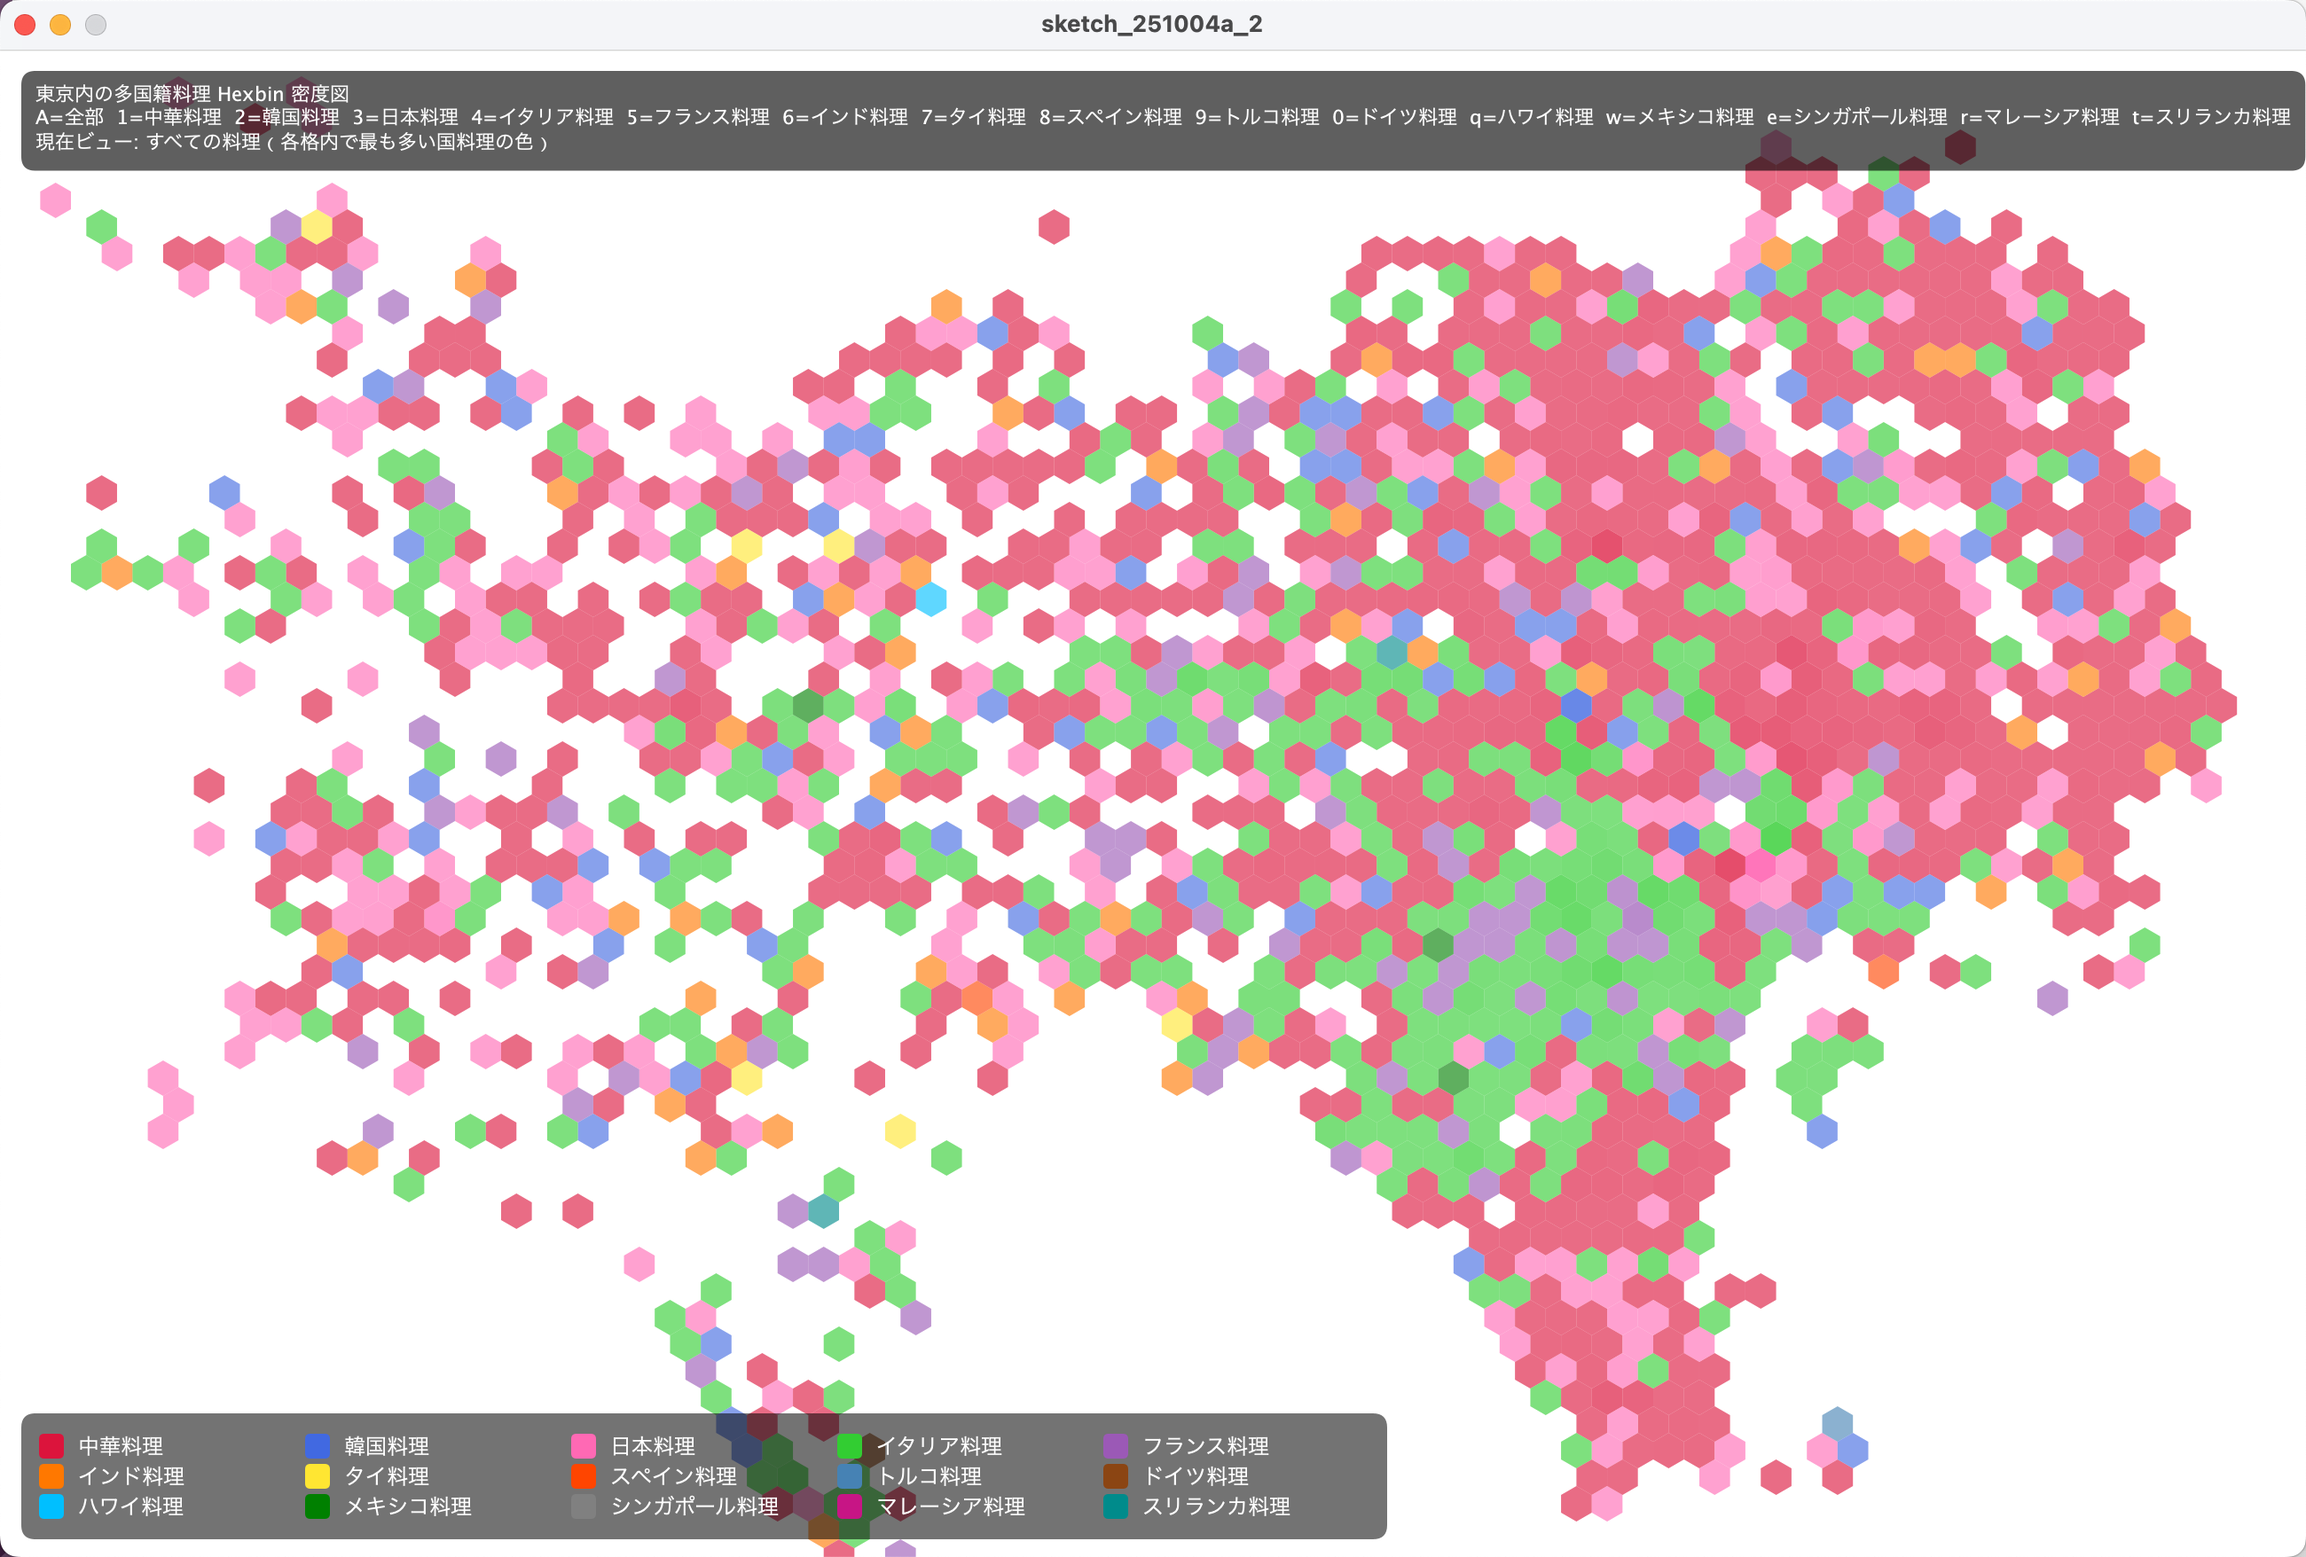
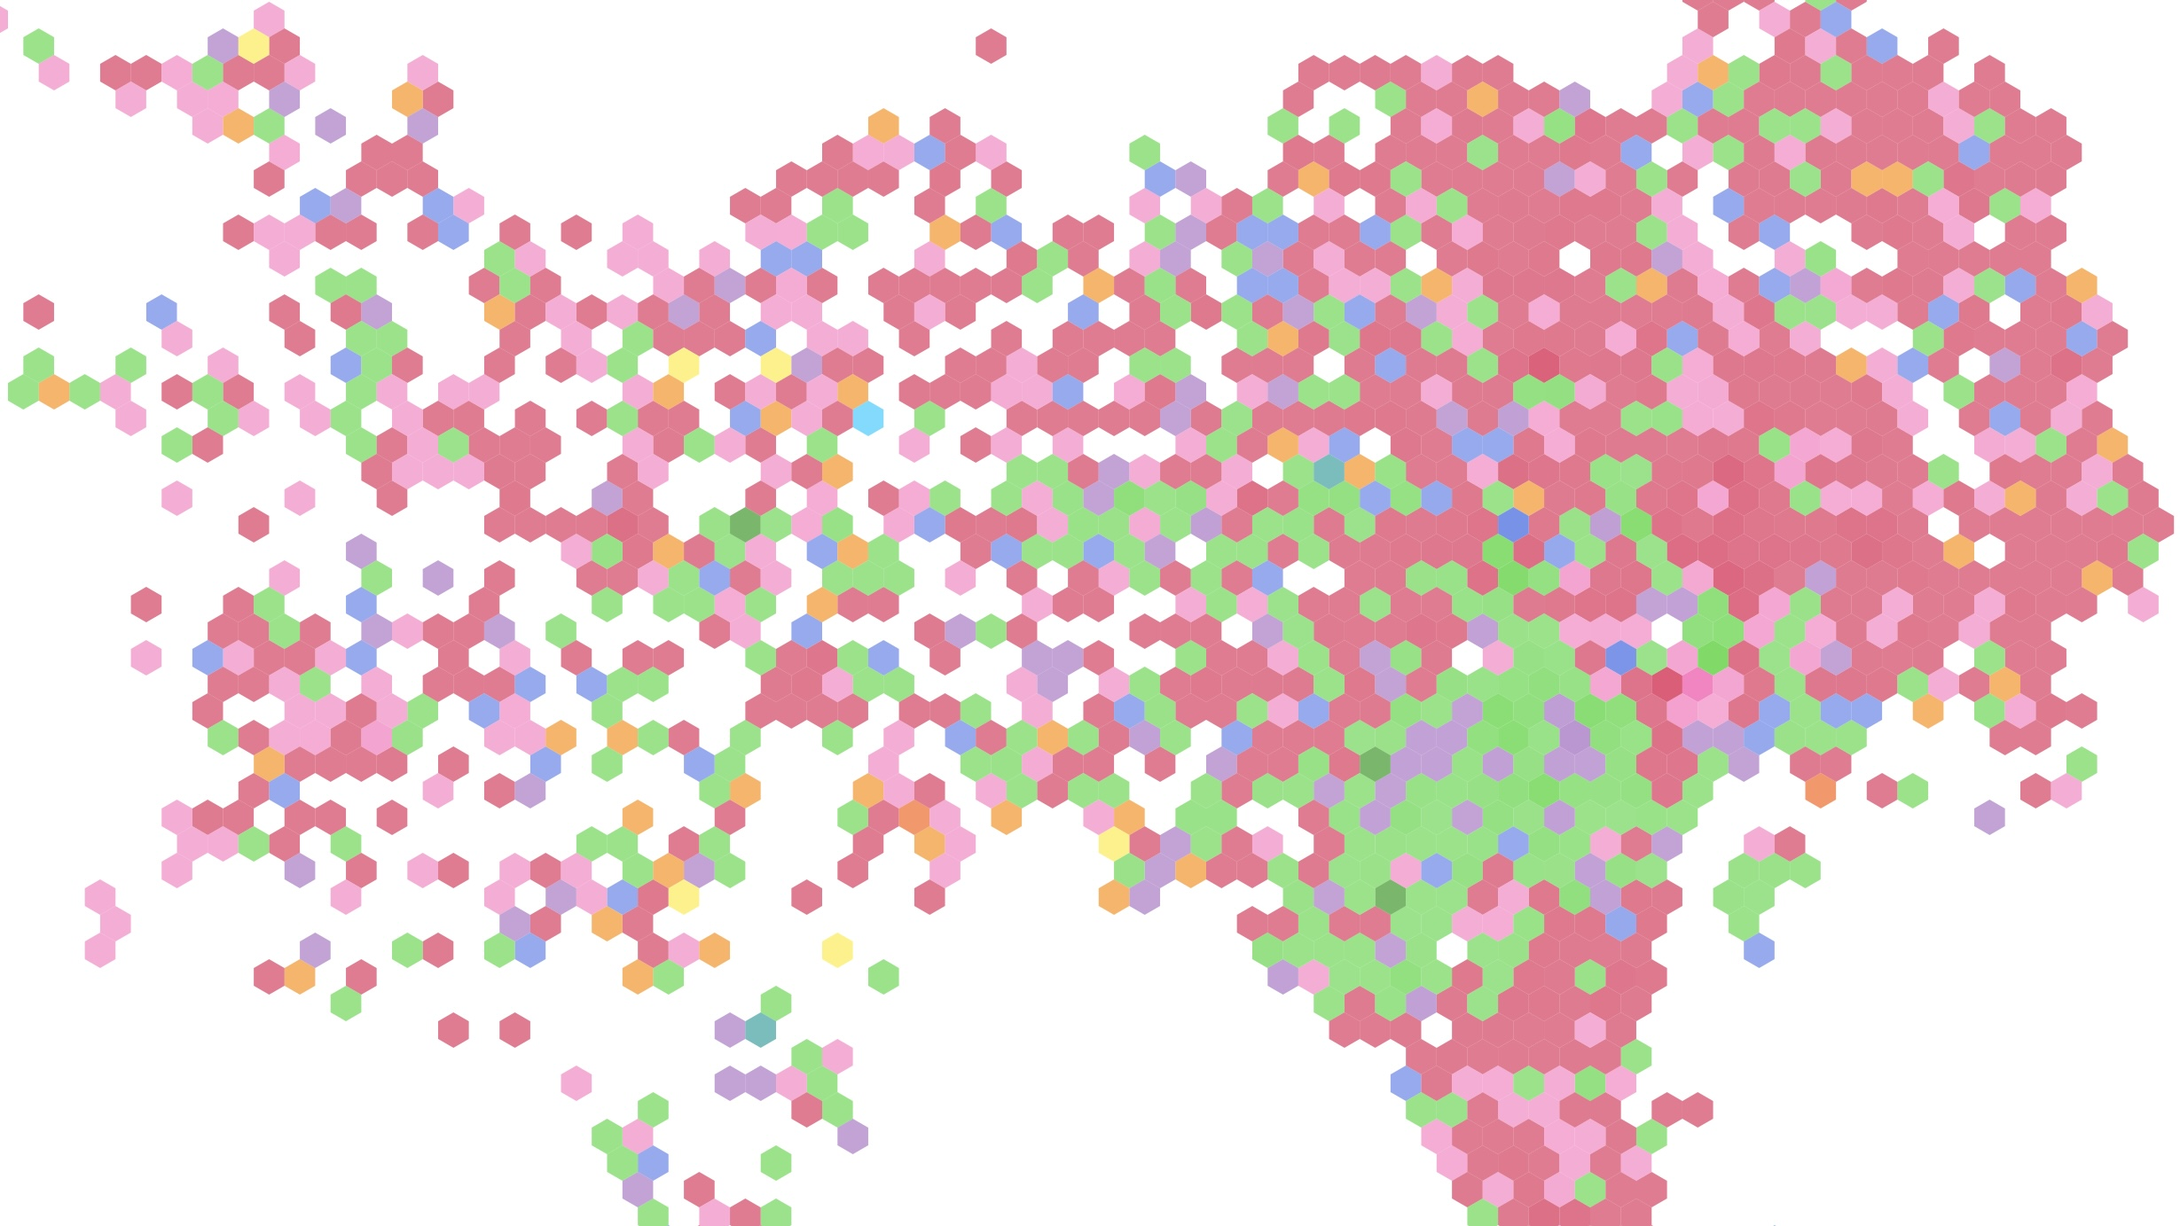
Refine about page from main

diff --git a/app/about/page.tsx b/app/about/page.tsx
@@ -56,15 +56,6 @@ const experiences = [
     company: "Fujitsu",
     roles: [
       {
-        period: "2019.4 - 2020.5",
-        title: "System Engineer",
-        summary: "Participated in the development and maintenance of healthcare systems for hospitals and medical institutions.",
-        details: [
-          "System development and operational support.",
-          "Enterprise-scale system workflow understanding."
-        ]
-      },
-      {
         period: "2020.6 - 2022.2",
         title: "Consultant",
         summary: "Worked closely with enterprise clients in healthcare-related digital transformation projects.",
@@ -74,48 +65,67 @@ const experiences = [
           "System improvement proposal and documentation.",
           "Cross-functional collaboration between technical and business teams."
         ]
+      },
+      {
+        period: "2019.4 - 2020.5",
+        title: "System Engineer",
+        summary: "Participated in the development and maintenance of healthcare systems for hospitals and medical institutions.",
+        details: [
+          "System development and operational support.",
+          "Enterprise-scale system workflow understanding."
+        ]
       }
     ]
   }
 ];
 
-const expertise = ["Product Strategy", "UI/UX Design", "Agile/Scrum", "Frontend Engineering", "Product Management", "Pharmacy"];
-
 const certifications = [
-  "Google UX Design",
-  "Advanced CSPO & CSD",
-  "Meta Frontend Developer",
-  "Certified Scrum Master"
+  "Google UX Design Professional Certificate",
+  "Advanced Certified Scrum Product Owner",
+  "Certified Scrum Developer",
+  "Certified Scrum Master",
+  "Meta Front-End Developer Professional Certificate"
 ];
 
 const skillGroups = [
   {
-    title: "/Design",
+    title: "Product",
     items: [
-      "UI/UX Design",
-      "Product Design",
-      "0→1 Innovation",
-      "GenAI / Vibe Coding",
-      "Creative + Art Direction",
-      "Visual Design + Systems",
-      "Typography",
-      "Concept Development",
-      "Creative Strategy",
-      "Illustration"
+      "Product Strategy",
+      "Requirement Definition",
+      "Agile/Scrum",
+      "Stakeholder Communication",
+      "Data-informed UX Improvement",
+      "Product Management",
+      "Project Management"
     ]
   },
   {
-    title: "/Technical",
+    title: "Design",
+    items: [
+      "UI/UX Design",
+      "Product Design",
+      "Information Design",
+      "Design Systems",
+      "Creative Strategy",
+      "Graphic Design",
+      "Social Project Design"
+    ]
+  },
+  {
+    title: "Technical",
     items: [
       "Next.js",
       "React",
-      "Typescript",
-      "HTML5",
-      "CSS",
+      "Vue",
+      "TypeScript",
+      "Javascript",
+      "HTML5 / CSS",
       "PHP",
+      "GitHub",
       "AWS",
-      "Figma (Design + Prototyping)",
-      "Illustrator",
+      "Figma",
+      "Illustration",
       "Photoshop",
       "Lightroom"
     ]
@@ -124,7 +134,7 @@ const skillGroups = [
 
 const languages = [
   { name: "Chinese", level: "Native", width: "100%" },
-  { name: "Japanese", level: "Business", width: "95%" },
+  { name: "Japanese", level: "Native", width: "100%" },
   { name: "English", level: "Professional", width: "84%" }
 ];
 
@@ -178,7 +188,7 @@ export default function AboutPage() {
           <h1 className="max-w-3xl text-[clamp(2.4rem,5vw,4.6rem)] font-bold leading-[1.02] tracking-normal text-[#69577a]">
             Hi, I’m Yong Liang
           </h1>
-          <p className="mt-7 max-w-3xl text-lg leading-8 text-[#332f3b]">
+          <p className="mt-20 max-w-3xl text-lg leading-8 text-[#332f3b]">
             A Tokyo-based product professional with a background in{" "}
             <span className="font-semibold text-tomato">product management</span>,{" "}
             <span className="font-semibold text-tomato">UX design</span>, and{" "}
@@ -190,12 +200,12 @@ export default function AboutPage() {
             exploring the relationship between design and human emotion.
           </p>
 
-          <section className="mt-14">
+          <section className="mt-[5.5rem]">
             <SectionHeading icon={<BriefcaseIcon />}>Work Experience</SectionHeading>
-            <div className="relative ml-3 border-l border-[#ded7e7] pl-8">
+            <div className="relative ml-1 pl-9 before:absolute before:left-[7px] before:top-1 before:h-full before:w-px before:bg-[#ded7e7]">
               {experiences.map((item) => (
                 <article key={item.company} className="relative pb-12 last:pb-0">
-                  <span className="absolute -left-[41px] top-1 h-2.5 w-2.5 rounded-full bg-[#7d6a91] ring-8 ring-[#f8f6fb]" />
+                  <span className="absolute -left-9 top-1 h-3.5 w-3.5 rounded-full bg-[#7d6a91]" />
                   <h3 className="text-2xl font-bold leading-tight text-[#201a27]">{item.company}</h3>
                   <div className="mt-6 space-y-6">
                     {item.roles.map((role) => (
@@ -223,71 +233,54 @@ export default function AboutPage() {
 
           <section className="mt-16">
             <SectionHeading icon={<BriefcaseIcon />}>Education</SectionHeading>
-            <div className="rounded-md border border-black/10 bg-white/80 p-8 shadow-sm md:flex md:items-start md:justify-between">
-              <div>
-                <h3 className="text-2xl font-bold text-[#201a27]">Musashino Art University</h3>
-                <p className="mt-2 text-base font-semibold text-[#69577a]">Bachelor of Design</p>
-                <p className="mt-4 max-w-2xl text-base leading-7 text-[#332f3b]">
-                  Focused on Web Design, information design, visual communication, and creative expression.
+            <div className="space-y-8">
+              <article>
+                <div className="flex flex-col gap-2 md:flex-row md:items-start md:justify-between md:gap-8">
+                  <h3 className="text-2xl font-bold text-[#201a27]">Musashino Art University</h3>
+                  <p className="shrink-0 text-xs font-bold tracking-[0.12em] text-[#8a789d] md:mt-1">2025.04 - Present</p>
+                </div>
+                <p className="mt-4 text-base font-semibold text-[#69577a]">Bachelor of Design Information</p>
+                <p className="mt-5 max-w-3xl text-base leading-7 text-[#332f3b]">
+                  Focused on web design, information design, graphic design, visual communication, and creative expression.
                 </p>
-              </div>
-              <p className="mt-5 shrink-0 text-xs font-bold uppercase tracking-[0.12em] text-[#8a789d] md:mt-1">
-                2025 - Present
-              </p>
+              </article>
+              <article>
+                <div className="flex flex-col gap-2 md:flex-row md:items-start md:justify-between md:gap-8">
+                  <h3 className="text-2xl font-bold text-[#201a27]">Okayama University</h3>
+                  <p className="shrink-0 text-xs font-bold tracking-[0.12em] text-[#8a789d] md:mt-1">2016.10 - 2018.09</p>
+                </div>
+                <p className="mt-4 text-base font-semibold text-[#69577a]">Master of Pharmacy</p>
+                <p className="mt-5 max-w-3xl text-base leading-7 text-[#332f3b]">
+                  Conducted a genetic analysis study on bacteria that cause food poisoning. Built a research-based foundation in
+                  scientific thinking, analytical reasoning, and structured problem solving.
+                </p>
+              </article>
             </div>
           </section>
 
           <section className="mt-16">
             <SectionHeading icon={<BadgeIcon />}>Beyond Work</SectionHeading>
-            <div className="rounded-md border border-black/10 bg-white/80 p-8 shadow-sm">
-              <p className="text-base leading-8 text-[#332f3b]">
-                I’m deeply inspired by photography, travel, architecture, and visual culture. I enjoy observing how
-                emotions, memories, and aesthetics influence the way people experience products and spaces.
-              </p>
-              <p className="mt-5 text-base leading-8 text-[#332f3b]">
-                Recently, I’ve been exploring the intersection of design, storytelling, and creative technology.
-              </p>
-            </div>
+            <p className="max-w-3xl text-base leading-8 text-[#332f3b]">
+              I’m inspired by photography, travel, and psychology. I enjoy observing how emotions, memories, and
+              aesthetics influence the way people experience products and spaces.
+            </p>
+            <p className="mt-5 max-w-3xl text-base leading-8 text-[#332f3b]">
+              I am also a freelance photographer, capturing emotions, cultures, and diverse experiences through my lens.
+            </p>
           </section>
         </div>
 
-        <aside className="space-y-12 lg:pt-28">
-          <section className="rounded-md bg-[#69577a] p-8 text-white shadow-sm">
-            <div className="relative aspect-[1.05/1] overflow-hidden bg-[#292431]">
+        <aside className="space-y-12 lg:pt-6">
+          <section>
+            <div className="relative aspect-[4/5] overflow-hidden rounded-sm bg-[#292431]">
               <Image
                 src={assetPath("/assets/AboutMe.JPG")}
                 alt="Yong Liang"
                 fill
                 className="object-cover"
-                sizes="296px"
+                sizes="360px"
+                priority
               />
-            </div>
-            <h2 className="mt-7 text-2xl font-bold">Expertise</h2>
-            <div className="mt-5 flex flex-wrap gap-2">
-              {expertise.map((item) => (
-                <span key={item} className="rounded-sm border border-white/25 px-3 py-2 text-[10px] font-bold uppercase tracking-[0.08em]">
-                  {item}
-                </span>
-              ))}
-            </div>
-          </section>
-
-          <section>
-            <SectionHeading icon={<BadgeIcon />}>Certifications</SectionHeading>
-            <div className="space-y-3">
-              {certifications.map((item) => (
-                <div key={item} className="flex items-center gap-4 rounded-sm border border-black/10 bg-white/80 p-5 shadow-sm">
-                  <span className="flex h-10 w-10 shrink-0 items-center justify-center rounded-full bg-[#f0ebf5] text-[#69577a]">
-                    <BadgeIcon />
-                  </span>
-                  <div>
-                    <h3 className="text-sm font-bold">{item}</h3>
-                    <p className="mt-1 text-[10px] font-bold uppercase tracking-[0.16em] text-[#463d50]">
-                      Professional Certificate
-                    </p>
-                  </div>
-                </div>
-              ))}
             </div>
           </section>
 
@@ -307,6 +300,20 @@ export default function AboutPage() {
                       </span>
                     ))}
                   </div>
+                </div>
+              ))}
+            </div>
+          </section>
+
+          <section>
+            <SectionHeading icon={<BadgeIcon />}>Certifications</SectionHeading>
+            <div className="space-y-3 rounded-md border border-black/10 bg-white/80 p-6 shadow-sm">
+              {certifications.map((item) => (
+                <div key={item} className="flex items-center gap-4">
+                  <span className="flex h-10 w-10 shrink-0 items-center justify-center rounded-full bg-[#f0ebf5] text-[#69577a]">
+                    <BadgeIcon />
+                  </span>
+                  <h3 className="text-sm font-bold leading-6">{item}</h3>
                 </div>
               ))}
             </div>
